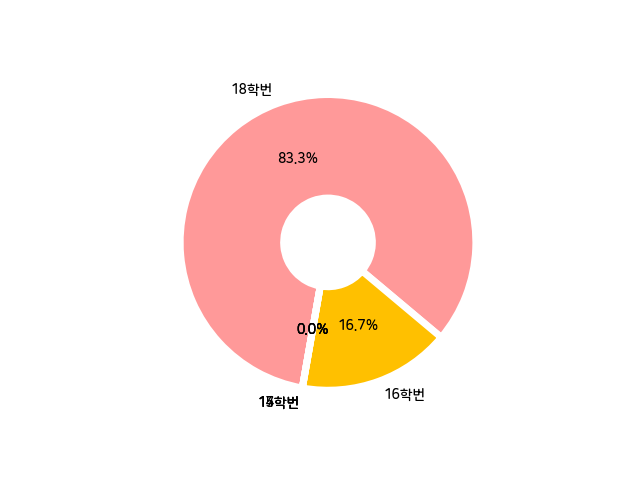
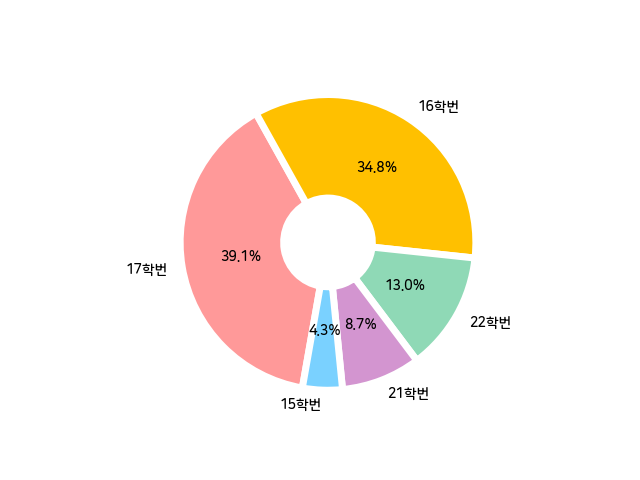
plt 초기화 코드 추가

diff --git a/global_forest/pages/templates/index.html b/global_forest/pages/templates/index.html
@@ -235,75 +235,75 @@
                 </div>
             </div>
         </section>
-    </form>
 
         <!-- loading -->
-    <section id="loading" onload="js:loading_func()">
-        <div class="loading__container">
-            <p class="loading__content">동물로 변신 중...</p>
-            <img src="{% static 'img/img1.png' %}" alt="변신" class="loading__img">
-            <img src="{% static 'img/img2.png' %}" alt="변신" class="loading__img">
-            <img src="{% static 'img/img3.png' %}" alt="변신" class="loading__img">
-            <img src="{% static 'img/img4.png' %}" alt="변신" class="loading__img">
-        </div>
-    </section>
+        <section id="loading" onload="js:loading_func()">
+            <div class="loading__container">
+                <p class="loading__content">동물로 변신 중...</p>
+                <img src="{% static 'img/img1.png' %}" alt="변신" class="loading__img">
+                <img src="{% static 'img/img2.png' %}" alt="변신" class="loading__img">
+                <img src="{% static 'img/img3.png' %}" alt="변신" class="loading__img">
+                <img src="{% static 'img/img4.png' %}" alt="변신" class="loading__img">
+            </div>
+        </section>
 
-        <!-- result -->
-    <section id="result">
-        <div class="result__container">
-            <div class="result__content">
-                <span class="result__content" id="result_text1"></span>
-                <b><span class="result__content" id="result_name"></span></b>
-                <span class="result__content" id="result_text2"></span>
-            </div>
-            <div class="result__both-img">
-                <img src="" class="result__background-img" />
-                <img src="" class="result__img" />
-            </div>
-            <!-- <div class="result__img"></div> -->
+            <!-- result -->
+        <section id="result">
+            <div class="result__container">
+                <div class="result__content">
+                    <span class="result__content" id="result_text1"></span>
+                    <b><span class="result__content" id="result_name"></span></b>
+                    <span class="result__content" id="result_text2"></span>
+                </div>
+                <div class="result__both-img">
+                    <img src="" class="result__background-img" />
+                    <img src="" class="result__img" />
+                </div>
+                <!-- <div class="result__img"></div> -->
 
-            <h1 class="result__sentence"></h1>
-            <p class="result__description"></p>
-            <div class="tag__container">
-                <button class="result__tag_1" type="button">tag</button>
-                <button class="result__tag_2" type="button">tag</button>
-                <button class="result__tag_3" type="button">tag</button>
+                <h1 class="result__sentence"></h1>
+                <p class="result__description"></p>
+                <div class="tag__container">
+                    <button class="result__tag_1" type="button">tag</button>
+                    <button class="result__tag_2" type="button">tag</button>
+                    <button class="result__tag_3" type="button">tag</button>
+                </div>
+                <button
+                    class="result__btn"
+                    name="result"
+                    type="submit"
+                    onclick="js:send_result()"
+                >Next ></button>
+                <div class="result__sns">
+                    <!-- <script type="text/javascript" src="//s7.addthis.com/js/300/addthis_widget.js#pubid=ra-6298c97359c75b1a"></script>
+                    <div class="addthis_inline_share_toolbox"></div> -->
+                    <a id="btnFacebook" class="link-icon facebook" href="javascript:shareFacebook();" >
+                        <img src="{% static 'img/icon-facebook.png' %}" alt="" class="facebook__img">
+                    </a>
+                    <a id="btnTwitter" class="link-icon twitter" href="javascript:shareTwitter();" >
+                        <img src="{% static 'img/icon-twitter.png' %}" alt="" class="twitter__img">
+                    </a>
+                    <a id="btnKakao" class="link-icon kakao" href="javascript:shareKakao();">
+                        <img src="{% static 'img/icon-kakao.png' %}" alt="" class="kakao__img">
+                    </a>
+                </div>
+                <ins class="kakao_ad_area" style="display:block;" 
+                data-ad-unit    = "DAN-htTw7pargqdYkDQS" 
+                data-ad-width   = "320" 
+                data-ad-height  = "100"></ins> 
+                <script type="text/javascript" src="//t1.daumcdn.net/kas/static/ba.min.js" async></script>
             </div>
-            <button
-                class="result__btn"
-                name="result"
-                type="submit"
-                onclick="js:send_result()"
-            >Next ></button>
-            <div class="result__sns">
-                <!-- <script type="text/javascript" src="//s7.addthis.com/js/300/addthis_widget.js#pubid=ra-6298c97359c75b1a"></script>
-                <div class="addthis_inline_share_toolbox"></div> -->
-                <a id="btnFacebook" class="link-icon facebook" href="javascript:shareFacebook();" >
-                    <img src="{% static 'img/icon-facebook.png' %}" alt="" class="facebook__img">
-                </a>
-                <a id="btnTwitter" class="link-icon twitter" href="javascript:shareTwitter();" >
-                    <img src="{% static 'img/icon-twitter.png' %}" alt="" class="twitter__img">
-                </a>
-                <a id="btnKakao" class="link-icon kakao" href="javascript:shareKakao();">
-                    <img src="{% static 'img/icon-kakao.png' %}" alt="" class="kakao__img">
-                </a>
-            </div>
-            <ins class="kakao_ad_area" style="display:block;" 
-            data-ad-unit    = "DAN-htTw7pargqdYkDQS" 
-            data-ad-width   = "320" 
-            data-ad-height  = "100"></ins> 
-            <script type="text/javascript" src="//t1.daumcdn.net/kas/static/ba.min.js" async></script>
-        </div>
-    </section>
-    <script>
-        // nickname 입력 시 수행되는 함수 
-        function printName(){  
-            const name = document.querySelector("#divname > input").value;
-            document.getElementById("result_text1").innerText = "모현의 숲에서 ";
-            document.getElementById("result_name").innerText = name;
-            document.getElementById("result_text2").innerText = "님은...";
-        }
-    </script>
+        </section>
+        <script>
+            // nickname 입력 시 수행되는 함수 
+            function printName(){  
+                const name = document.querySelector("#divname > input").value;
+                document.getElementById("result_text1").innerText = "모현의 숲에서 ";
+                document.getElementById("result_name").innerText = name;
+                document.getElementById("result_text2").innerText = "님은...";
+            }
+        </script>
+    </form>
 </body>
 </html>
 

diff --git a/global_forest/pages/views.py b/global_forest/pages/views.py
@@ -177,6 +177,7 @@ def result(request):
     plt.pie(ratio_2, labels=labels_2, autopct='%.1f%%', startangle=260,
             counterclock=False, colors=colors, wedgeprops=wedgeprops)
     plt.savefig('./static/img/top5_major.png', transparent=True)
+    plt.clf()
     return render(request, 'result.html')
 
 
